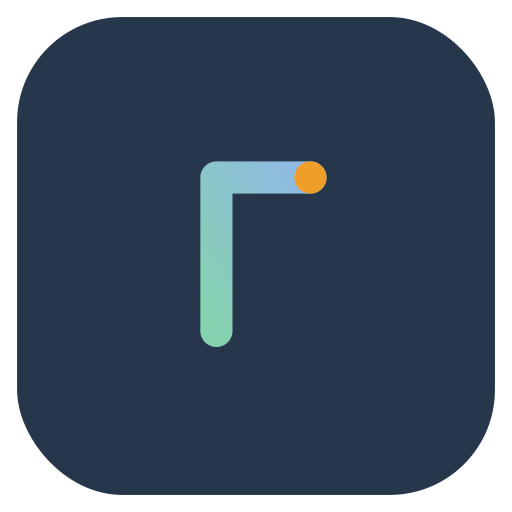
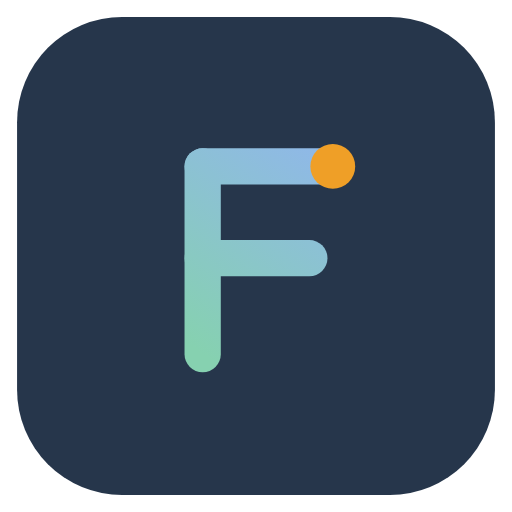
Symbole = « F » de FILON (préférence retenue)
Remplace le symbole en coin par un F clair, même style « fil » menthe→bleu
+ point or, sur tuile navy. Corrige aussi le dégradé (userSpaceOnUse) qui
disparaissait sur les traits verticaux/horizontaux. Mise à jour partout :
header, footer, favicon/app-icon, icônes et marques de l'extension.

Claude-Session: https://claude.ai/code/session_011fuZcujE9mvwPashUw5FQ4

diff --git a/filon-web/components/editorial/Brand.tsx b/filon-web/components/editorial/Brand.tsx
@@ -5,19 +5,18 @@ export function BrandMark({ size = 30 }: { size?: number }) {
   return (
     <svg className="ed-brand-mark" width={size} height={size} viewBox="0 0 240 240" aria-hidden="true" focusable="false">
       <defs>
-        <linearGradient id="filon-mb" x1="0" y1="1" x2="1" y2="0">
+        <linearGradient id="filon-mb" gradientUnits="userSpaceOnUse" x1="95" y1="166" x2="156" y2="78">
           <stop offset="0" stopColor="#86D1B0" />
           <stop offset="1" stopColor="#8FB9E6" />
         </linearGradient>
       </defs>
       <rect x="8" y="8" width="224" height="224" rx="49.28" fill="#26364B" />
-      <g transform="translate(62,60) scale(1.16)">
-        <g fill="none" stroke="url(#filon-mb)" strokeWidth="13" strokeLinecap="round" strokeLinejoin="round">
-          <path d="M34 82 L34 20 L72 20" />
-          <path d="M34 50 L60 50" />
-        </g>
-        <circle cx="72" cy="20" r="6.5" fill="#EF9F27" />
+      <g fill="none" stroke="url(#filon-mb)" strokeWidth="17" strokeLinecap="round" strokeLinejoin="round">
+        <path d="M95 78 L95 166" />
+        <path d="M95 78 L156 78" />
+        <path d="M95 121 L145 121" />
       </g>
+      <circle cx="156" cy="78" r="10.5" fill="#EF9F27" />
     </svg>
   );
 }

diff --git a/filon-extension/popup.html b/filon-extension/popup.html
@@ -67,12 +67,10 @@
   <body>
     <div class="head">
       <svg viewBox="0 0 240 240" width="32" height="32" aria-hidden="true">
-        <defs><linearGradient id="plg" x1="0" y1="1" x2="1" y2="0"><stop stop-color="#86D1B0" /><stop offset="1" stop-color="#8FB9E6" /></linearGradient></defs>
+        <defs><linearGradient id="plg" gradientUnits="userSpaceOnUse" x1="95" y1="166" x2="156" y2="78"><stop stop-color="#86D1B0" /><stop offset="1" stop-color="#8FB9E6" /></linearGradient></defs>
         <rect x="8" y="8" width="224" height="224" rx="49.28" fill="#26364B" />
-        <g transform="translate(62,60) scale(1.16)">
-          <g fill="none" stroke="url(#plg)" stroke-width="13" stroke-linecap="round" stroke-linejoin="round"><path d="M34 82 L34 20 L72 20" /><path d="M34 50 L60 50" /></g>
-          <circle cx="72" cy="20" r="6.5" fill="#EF9F27" />
-        </g>
+        <g fill="none" stroke="url(#plg)" stroke-width="17" stroke-linecap="round" stroke-linejoin="round"><path d="M95 78 L95 166" /><path d="M95 78 L156 78" /><path d="M95 121 L145 121" /></g>
+        <circle cx="156" cy="78" r="10.5" fill="#EF9F27" />
       </svg>
       <div class="brand"><b>FILON</b><small>Le vrai prix, avant d'acheter.</small></div>
     </div>

diff --git a/filon-extension/content.js b/filon-extension/content.js
@@ -77,12 +77,11 @@
   }
 
   const LOGO = `<svg viewBox="0 0 240 240" width="26" height="26" aria-hidden="true">
-    <defs><linearGradient id="${PREFIX}-g" x1="0" y1="1" x2="1" y2="0">
+    <defs><linearGradient id="${PREFIX}-g" gradientUnits="userSpaceOnUse" x1="95" y1="166" x2="156" y2="78">
       <stop stop-color="#86D1B0"/><stop offset="1" stop-color="#8FB9E6"/></linearGradient></defs>
     <rect x="8" y="8" width="224" height="224" rx="49.28" fill="#26364B"/>
-    <g transform="translate(62,60) scale(1.16)">
-      <g fill="none" stroke="url(#${PREFIX}-g)" stroke-width="13" stroke-linecap="round" stroke-linejoin="round"><path d="M34 82 L34 20 L72 20"/><path d="M34 50 L60 50"/></g>
-      <circle cx="72" cy="20" r="6.5" fill="#EF9F27"/></g></svg>`;
+    <g fill="none" stroke="url(#${PREFIX}-g)" stroke-width="17" stroke-linecap="round" stroke-linejoin="round"><path d="M95 78 L95 166"/><path d="M95 78 L156 78"/><path d="M95 121 L145 121"/></g>
+    <circle cx="156" cy="78" r="10.5" fill="#EF9F27"/></svg>`;
 
   const CHECKS = [
     ["Meilleur marchand", "des dizaines de vendeurs comparés en direct"],
